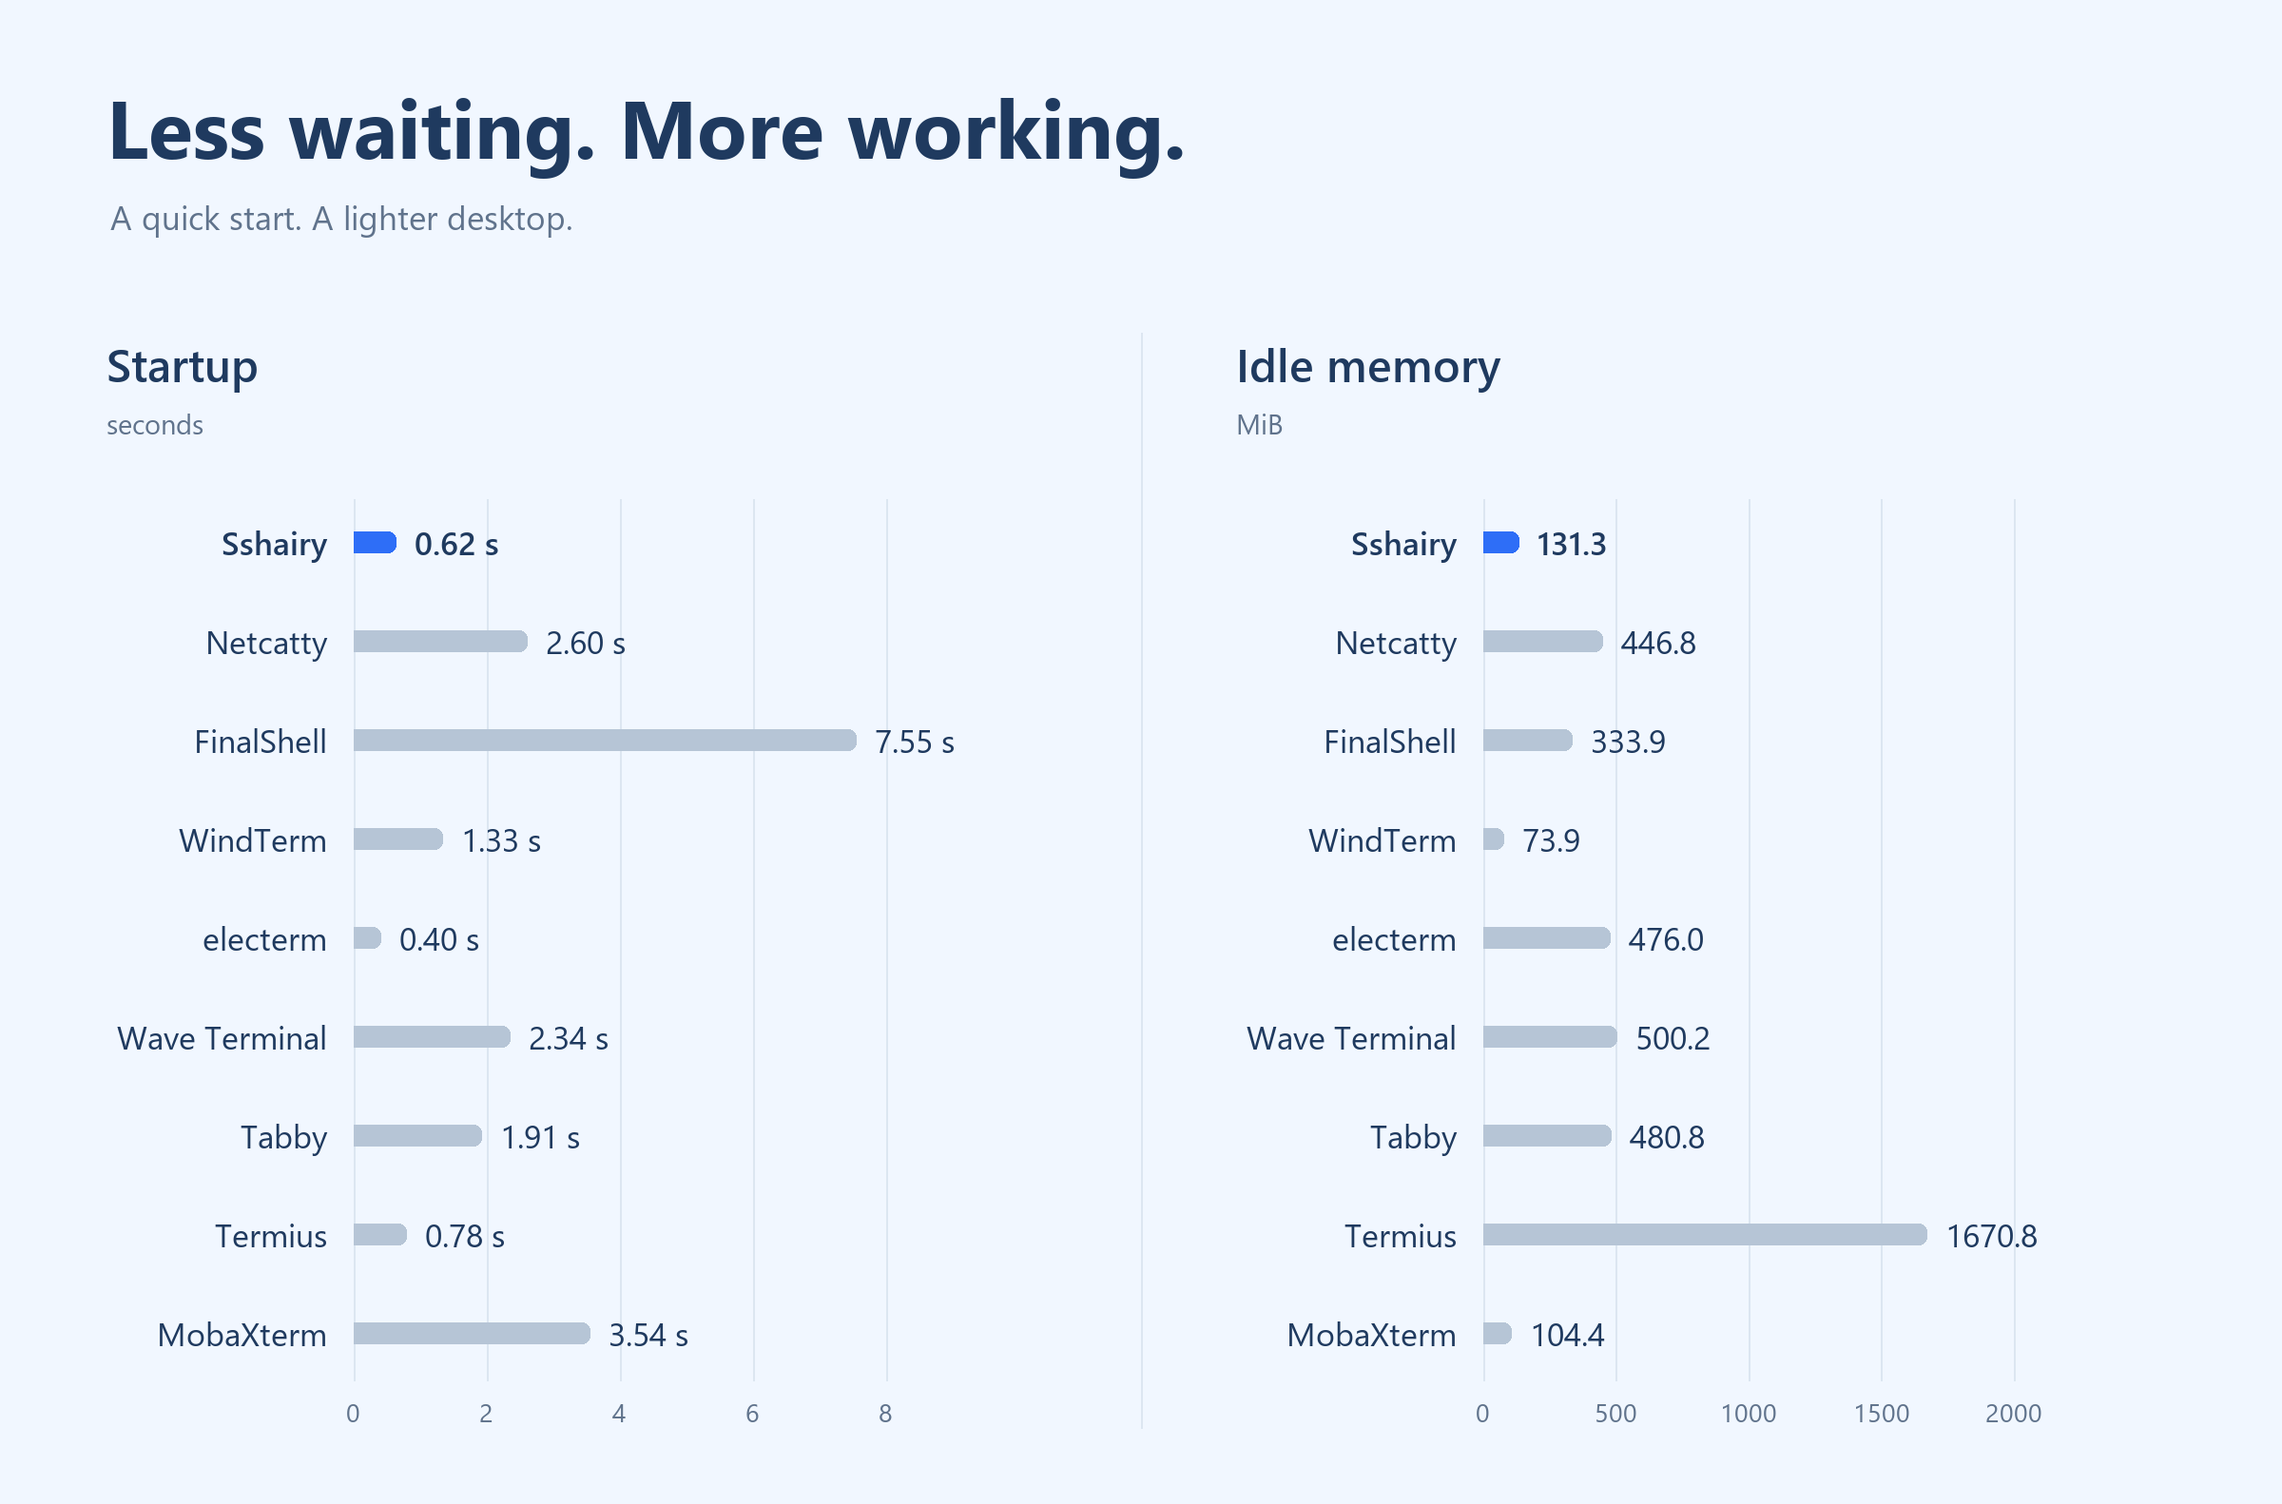
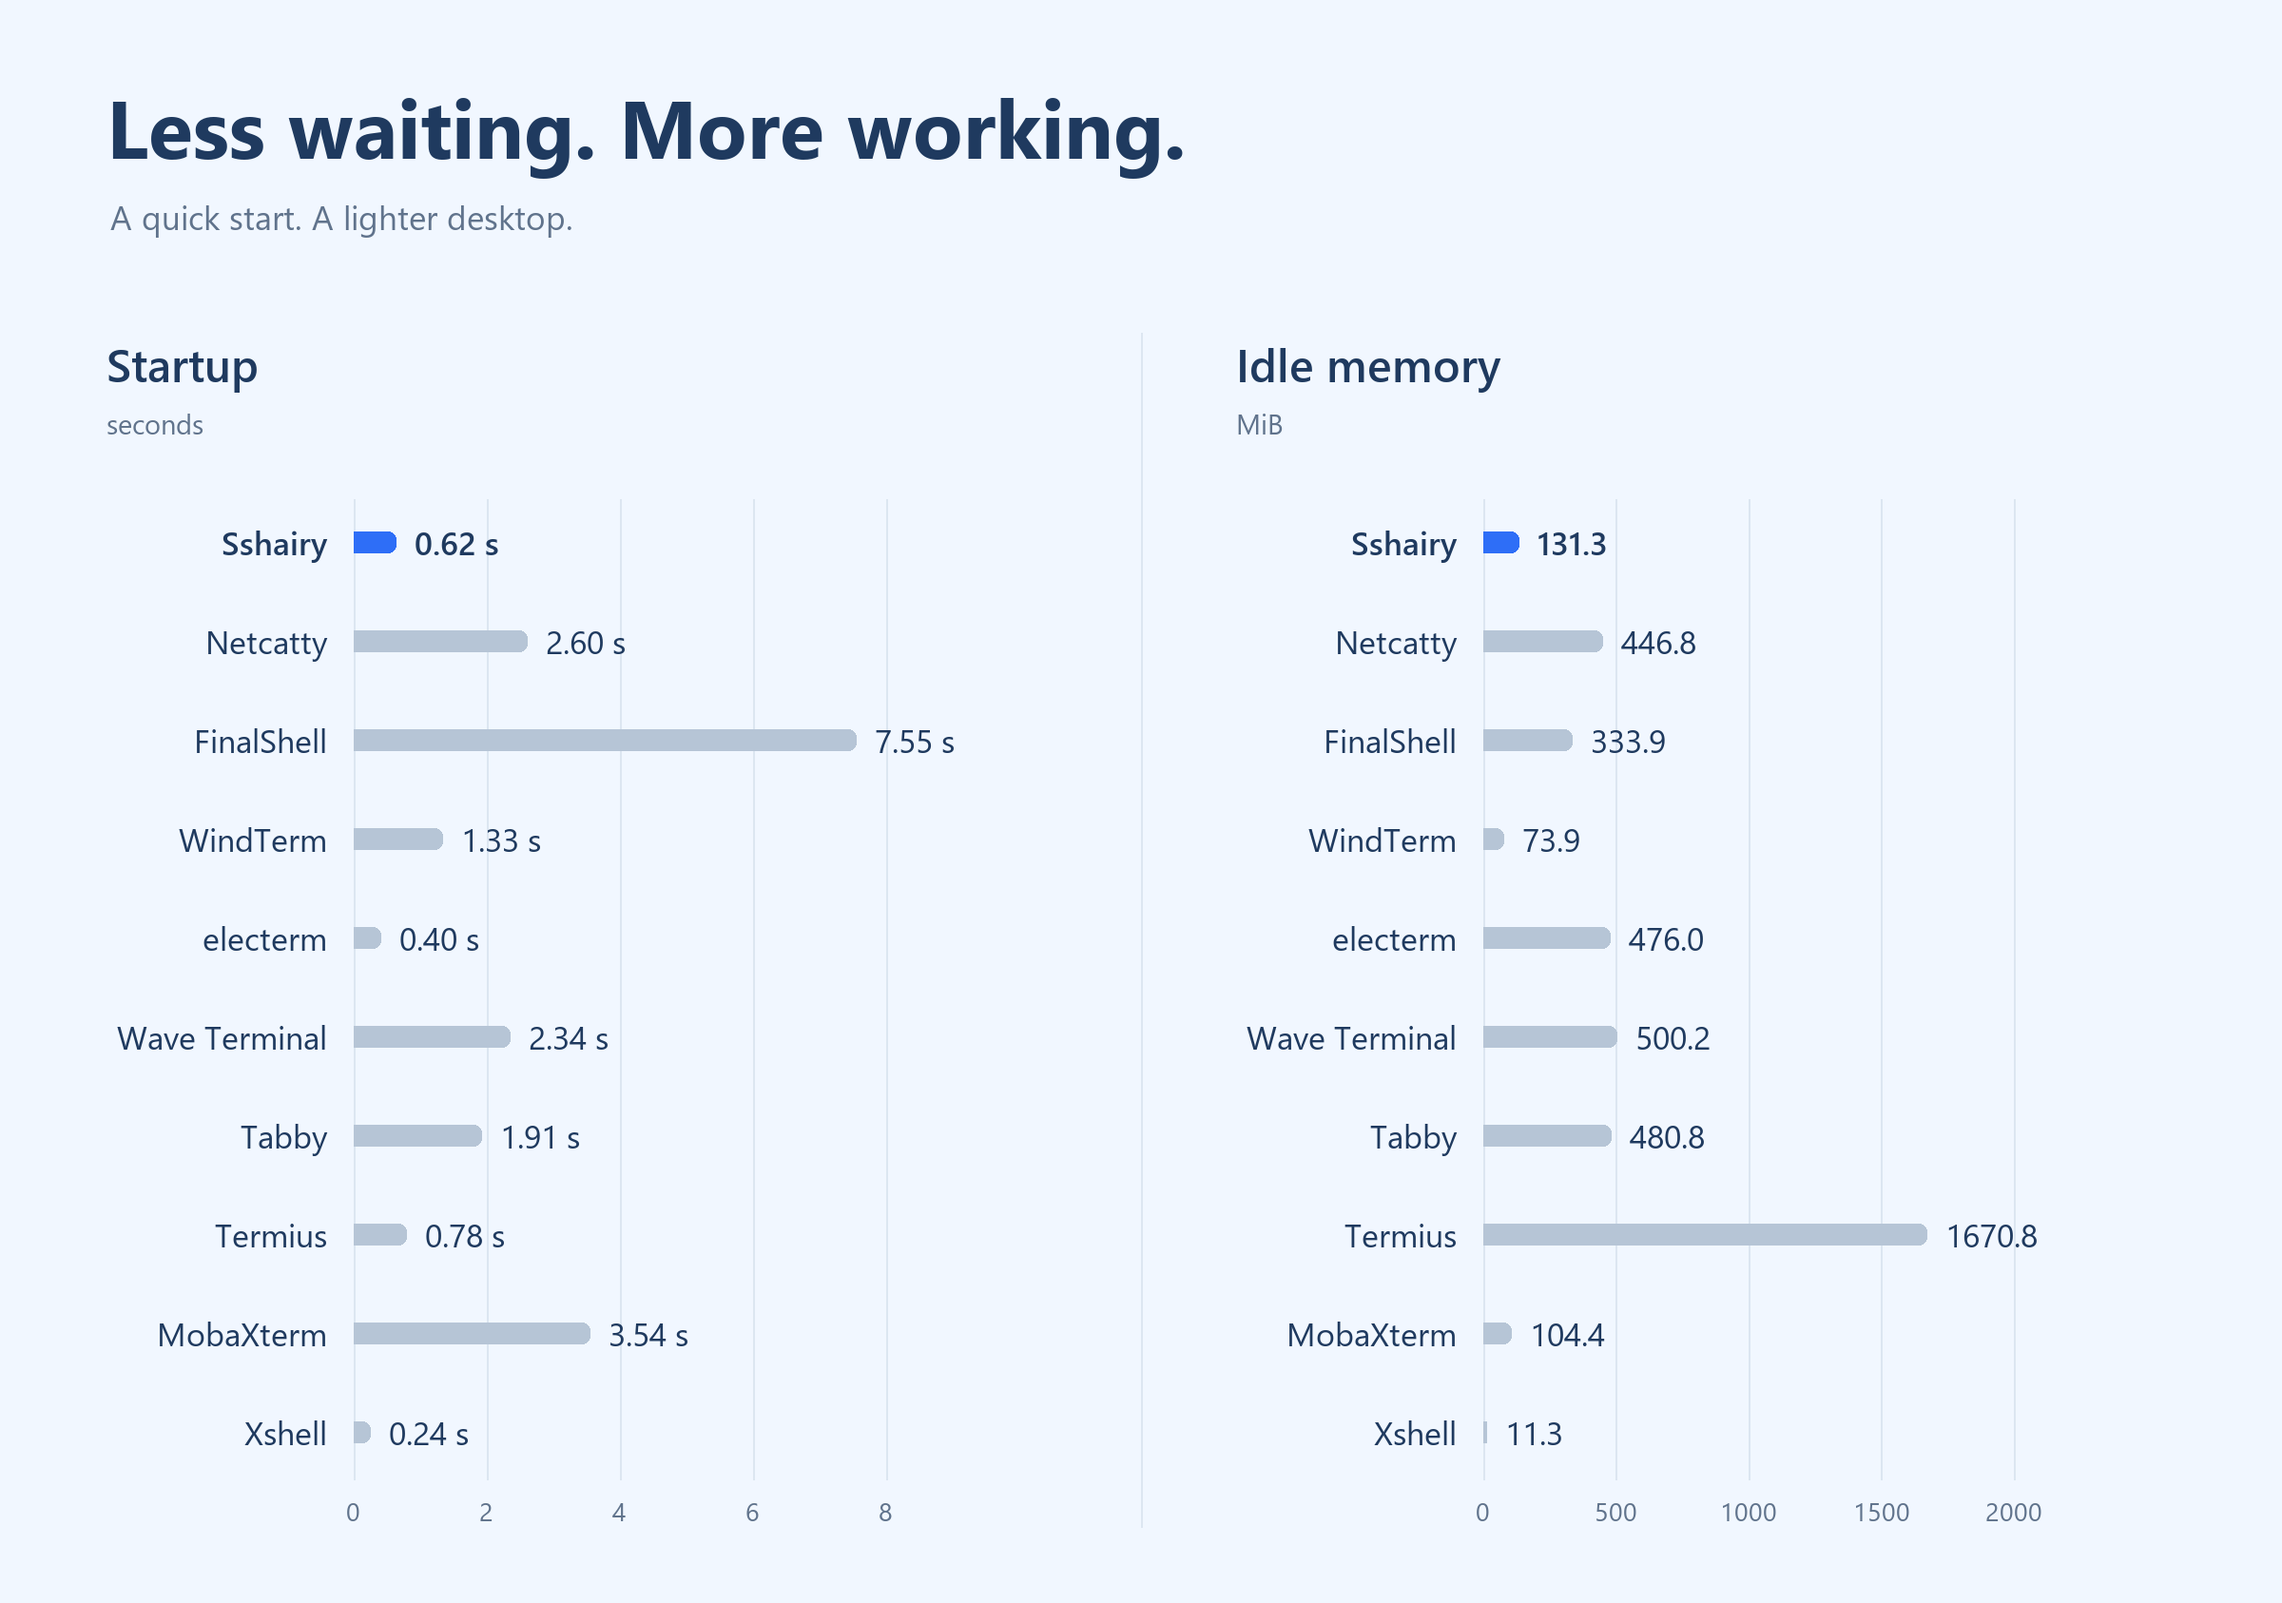
docs: add installed Xshell startup and memory comparison

diff --git a/tool/readme/make_images.py b/tool/readme/make_images.py
@@ -233,7 +233,7 @@ def bars(image, rows, x, y, width, maximum, ticks, unit, digits, step=140, label
         end = left + plot_width * value / maximum
         draw.rounded_rectangle((left, cy - 11, end, cy + 11), 8,
                                fill=BLUE if name == 'Sshairy' else NEUTRAL)
-        draw.rectangle((left, cy - 11, left + 7, cy + 11), fill=BLUE if name == 'Sshairy' else NEUTRAL)
+        draw.rectangle((left, cy - 11, min(left + 7, end), cy + 11), fill=BLUE if name == 'Sshairy' else NEUTRAL)
         label = f'{value:.{digits}f}{unit}'
         text(image, (end + 20, cy), label, 34, 'semibold' if name == 'Sshairy' else 'regular', anchor='lm')
 

diff --git a/tool/readme/SOURCES.md b/tool/readme/SOURCES.md
@@ -19,7 +19,7 @@ python -I -X utf8 tool/readme/make_images.py
 
 [benchmarks.json](benchmarks.json) supplies the performance charts and stores versions, startup samples, memory, application folder sizes, download URLs and artifact hashes.
 
-Measurements taken on 2026-11-13. Startup: one warm-up followed by five launches, median time to the first visible main window of at least 600 × 400. Memory: whole-process-tree USS 15 seconds after that window appears. Runs are sequential, with separate profiles and no remote SSH connections. Default local tabs and bundled helper processes are included. Application folder sizes count the extracted application files; the README's Sshairy ZIP size refers to the original application bundle.
+Measurements taken on 2026-11-13, with Xshell added on 2026-11-14. Startup: one warm-up followed by five launches, median time to the first visible main window of at least 600 × 400. Memory: whole-process-tree USS 15 seconds after that window appears. Runs are sequential and use no remote SSH connections. Portable and Electron clients use separate profiles; Xshell uses the installed application described below. Default local tabs and bundled helper processes are included. Application folder sizes count extracted or installed application files; the README's Sshairy ZIP size refers to the original application bundle.
 
 | Client | Version | Startup | Idle USS | App folder | Processes |
 |---|---|---:|---:|---:|---:|
@@ -32,10 +32,11 @@ Measurements taken on 2026-11-13. Startup: one warm-up followed by five launches
 | Tabby | 1.0.238 | 1.913 s | 480.8 MiB | 481.4 MiB | 5 |
 | Termius | 10.4.1 | 0.784 s | 1670.8 MiB | 557.8 MiB | 7 |
 | MobaXterm | 26.6 | 3.545 s | 104.4 MiB | 47.1 MiB | 2 |
+| Xshell | 8.0.0120 | 0.242 s | 11.3 MiB | 102.6 MiB | 1 |
 
 Sshairy, Netcatty and FinalShell retain their earlier measurements. WindTerm, electerm, Wave, Tabby, Termius and MobaXterm were downloaded from official releases and run for this revision. WindTerm uses its fresh portable tree; the Electron clients use explicit user-data directories, redirected home/AppData paths and supported application-specific profile variables. Tabby and Termius are extracted from their official installers; Wave and electerm use portable archives. Termius is measured without signing in to an account. MobaXterm uses its Home portable release with an explicit temporary INI path. Test processes are closed after each run.
 
[2 lines of base64/hex data omitted]
 
 The README's comparison to Netcatty rounds `1 - 131.3 / 446.8 = 70.6%` to 71% lower idle memory and `2.604 / 0.624 = 4.17` to 4× the startup speed.
 
@@ -46,7 +47,7 @@ The baseline harness is [measure_startup.py](measure_startup.py). For Electron c
 - Wave: `WAVETERM_DATA_HOME`, `WAVETERM_CONFIG_HOME`, `WAVETERM_NOCONFIRMQUIT=1`.
 - electerm: `ELECTERM_REGISTER_PROTOCOLS=false`.
 - MobaXterm: `-i <temporary-profile>/MobaXterm.ini` ([official command-line documentation](https://mobaxterm.mobatek.net/documentation.html)).
-- Xshell's [official folder documentation](https://netsarang.atlassian.net/wiki/spaces/ENSUP/pages/177471571/Changing%2Bthe%2BUser%2BData%2BFolder%2B-%2BXshell) describes a setting in the UI; no undocumented profile switch was assumed.
+- Xshell uses the documented [`-newwin` option](https://netsarang.atlassian.net/wiki/spaces/ENSUP/pages/2237306095/Xshell+Command+Line+Options). Its [folder documentation](https://netsarang.atlassian.net/wiki/spaces/ENSUP/pages/177471571/Changing%2Bthe%2BUser%2BData%2BFolder%2B-%2BXshell) describes a setting in the UI; no undocumented profile switch was assumed.
 
 ## Downloads and folder contents
 

diff --git a/README.md b/README.md
@@ -67,6 +67,7 @@ Ice Blue / Mint, Mint Green, Violet, Sunset Orange, Deep Sea Blue and Sakura Pin
 | Tabby | 1.91 s | 480.8 MiB | 481.4 MiB |
 | Termius | 0.78 s | 1670.8 MiB | 557.8 MiB |
 | MobaXterm | 3.54 s | 104.4 MiB | 47.1 MiB |
+| Xshell | 0.24 s | 11.3 MiB | 102.6 MiB |
 
 <!-- /benchmark-table -->
 

diff --git a/README.zh.md b/README.zh.md
@@ -67,6 +67,7 @@
 | Tabby | 1.91 秒 | 480.8 MiB | 481.4 MiB |
 | Termius | 0.78 秒 | 1670.8 MiB | 557.8 MiB |
 | MobaXterm | 3.54 秒 | 104.4 MiB | 47.1 MiB |
+| Xshell | 0.24 秒 | 11.3 MiB | 102.6 MiB |
 
 <!-- /benchmark-table -->
 
